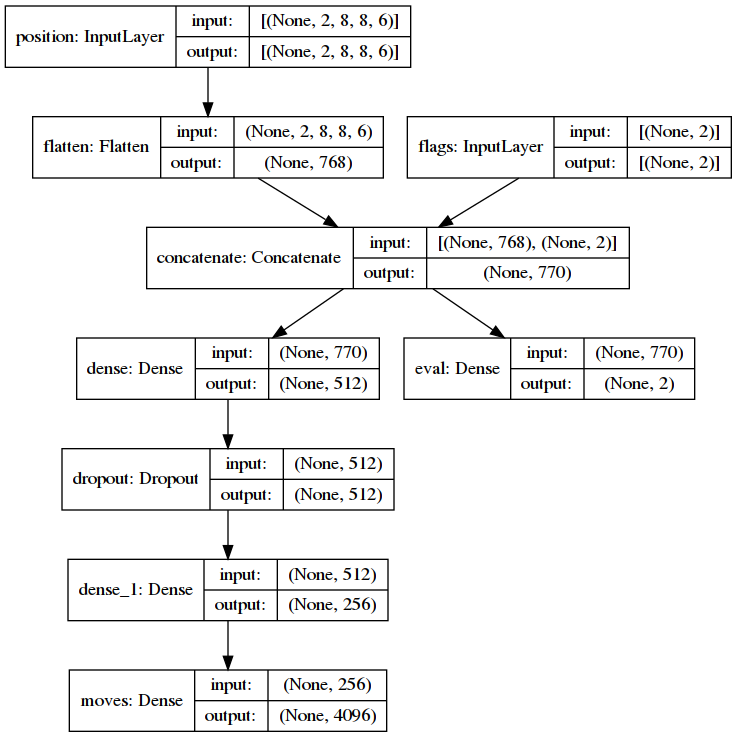
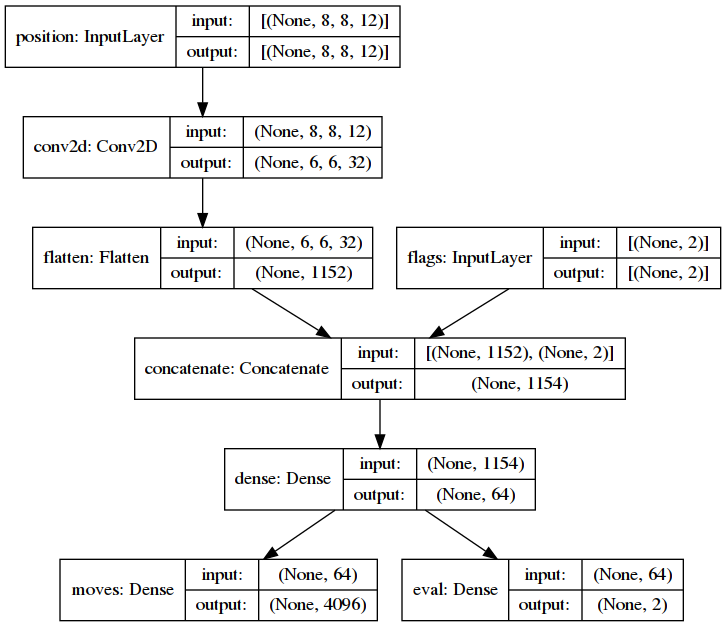
Transfer from laptop

Changed region(s): [[0.0, 0.0, 1.0, 1.0]]

diff --git a/chessnn/nn.py b/chessnn/nn.py
@@ -84,34 +84,19 @@ class NNChess(NN):
         activ_out = "softmax"  # linear relu elu sigmoid tanh softmax
         optimizer = "rmsprop"  # sgd rmsprop adagrad adadelta adamax adam nadam
 
-        position = layers.Input(shape=(2, 8, 8, len(PIECE_TYPES)), name="position")
+        pos_shape = (8, 8, len(PIECE_TYPES) * 2)
+        position = layers.Input(shape=pos_shape, name="position")
+        conv = layers.Conv2D(32, kernel_size=(3, 3), activation=activ_hidden)(position)
+        conv = layers.Conv2D(32, kernel_size=(3, 3), activation=activ_hidden)(position)
+        #conv = layers.Conv2D(64, kernel_size=(5, 5), activation=activ_hidden)(conv)
+        #conv = layers.MaxPooling2D()(conv)
+        conv = layers.Flatten()(conv)
+
         flags = layers.Input(shape=(2,), name="flags")
-        main = layers.concatenate([layers.Flatten()(position), flags])
-
-        branch = main
-        """
-        def _residual(inp, size):
-            # out = layers.Dropout(rate=0.05)(inp)
-            inp = layers.Dense(size, activation=activ_hidden, kernel_regularizer=reg)(inp)
-            out = layers.Dense(size, activation=activ_hidden, kernel_regularizer=reg)(inp)
-            out = layers.merge.multiply([inp, out])
-            # out = layers.Dense(size, activation=activ_hidden, kernel_regularizer=reg)(out)
-            return out
-
-        for _ in range(2, 1, -1):
-            branch = _residual(branch, 64 * 8)
-
-        main = layers.concatenate([main, branch])
-
-        for _ in range(2, 1, -1):
-            main = _residual(main, 64 * 8)
-        """
-        main = layers.Dense(512, activation=activ_hidden, kernel_regularizer=reg)(main)
-        main = layers.Dropout(0.1)(main)
-        main = layers.Dense(256, activation=activ_hidden, kernel_regularizer=reg)(main)
-
+        main = layers.concatenate([conv, flags])
+        main = layers.Dense(64)(main)
         out_moves = layers.Dense(4096, activation=activ_out, name="moves")(main)
-        out_eval = layers.Dense(2, activation=activ_out, name="eval")(branch)
+        out_eval = layers.Dense(2, activation=activ_out, name="eval")(main)
 
         model = models.Model(inputs=[position, flags], outputs=[out_moves, out_eval])
         model.compile(optimizer=optimizer,
@@ -123,7 +108,7 @@ class NNChess(NN):
     def _data_to_training_set(self, data, is_inference=False):
         batch_len = len(data)
 
-        inputs_pos = np.full((batch_len, 2, 8, 8, len(PIECE_TYPES)), 0.0)
+        inputs_pos = np.full((batch_len, 8, 8, len(PIECE_TYPES) * 2), 0.0)
         inputs_flags = np.full((batch_len, 2), 0.0)
         out_moves = np.full((batch_len, 4096), 0.0)
         evals = np.full((batch_len, 2), 0.0)

diff --git a/training.py b/training.py
@@ -4,7 +4,7 @@ import pickle
 import sys
 from typing import Set
 
-from chess import WHITE, BLACK
+from chess import WHITE, BLACK, Move
 
 from chessnn import BoardOptim, MoveRecord, is_debug
 from chessnn.nn import NNChess
@@ -32,7 +32,7 @@ def play_one_game(pwhite, pblack, rnd):
             if is_debug():
                 board.write_pgn(pwhite, pblack, os.path.join(os.path.dirname(__file__), "last.pgn"), rnd)
     except:
-        last = board.move_stack[-1]
+        last = board.move_stack[-1] if board.move_stack else Move.null()
         logging.warning("Final move: %s %s %s", last, last.from_square, last.to_square)
         logging.warning("Final position:\n%s", board.unicode())
         raise
@@ -139,7 +139,7 @@ def play_with_score(pwhite, pblack):
             draw.update(bmoves)
 
         rnd += 1
-        if not (rnd % 96):
+        if not (rnd % 1):
             # if had_decisive:
             winning.dataset -= losing.dataset
             winning.dataset -= draw

diff --git a/chessnn/__init__.py b/chessnn/__init__.py
@@ -153,14 +153,18 @@ class BoardOptim(chess.Board):
         return super().pop()
 
     def get_position(self):
-        pos = np.full((2, 8, 8, len(chess.PIECE_TYPES)), 0)
+        pos = np.full((8, 8, len(chess.PIECE_TYPES) * 2), 0)
         for square in chess.SQUARES:
             piece = self.piece_at(square)
 
             if not piece:
                 continue
 
-            pos[int(piece.color)][square_file(square)][square_rank(square)][piece.piece_type - 1] = 1
+            int(piece.color)
+            channel = piece.piece_type - 1
+            if piece.color:
+                channel += len(PIECE_VALUES)
+            pos[square_file(square)][square_rank(square)][channel] = 1
 
         pos.flags.writeable = False
 

diff --git a/chessnn/player.py b/chessnn/player.py
@@ -55,7 +55,7 @@ class Player(object):
 
     def _get_moverec(self, pos, move, evl):
         fifty = self.board.halfmove_clock / 100.0
-        repetition = float(self.board.is_repetition(2))
+        repetition = False#float(self.board.is_repetition(2))
         moverec = MoveRecord(pos, move, repetition, fifty)
         moverec.forced_eval = evl if not repetition else 0.0
         moverec.forced_eval = evl if not repetition else 0.0
